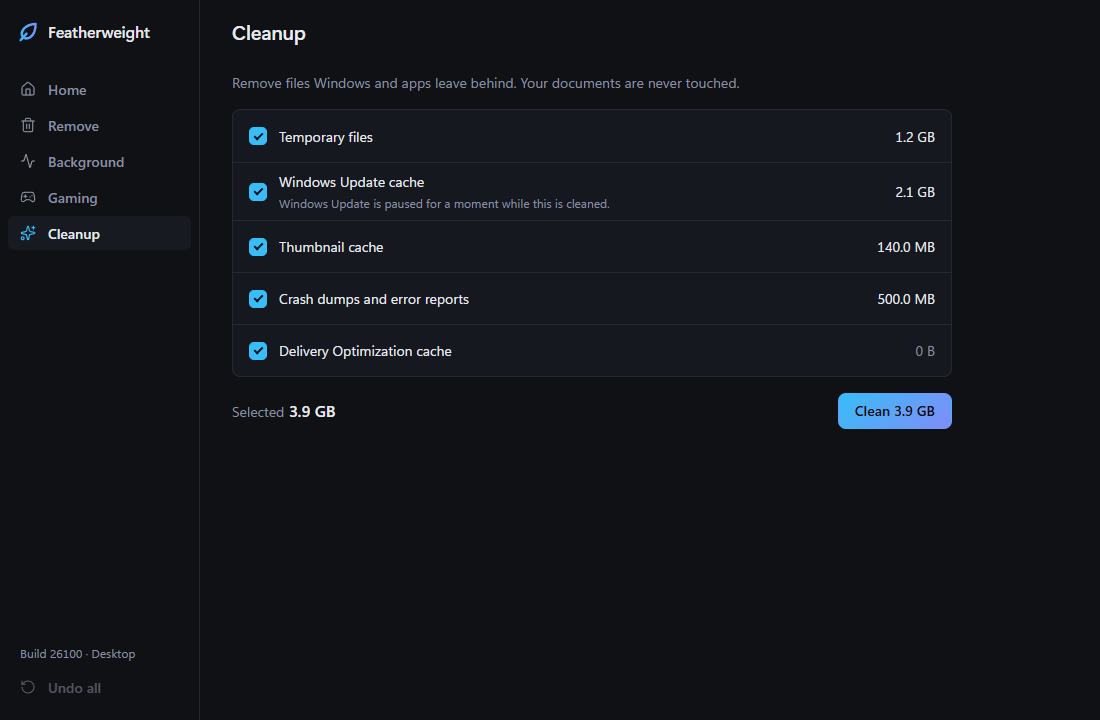
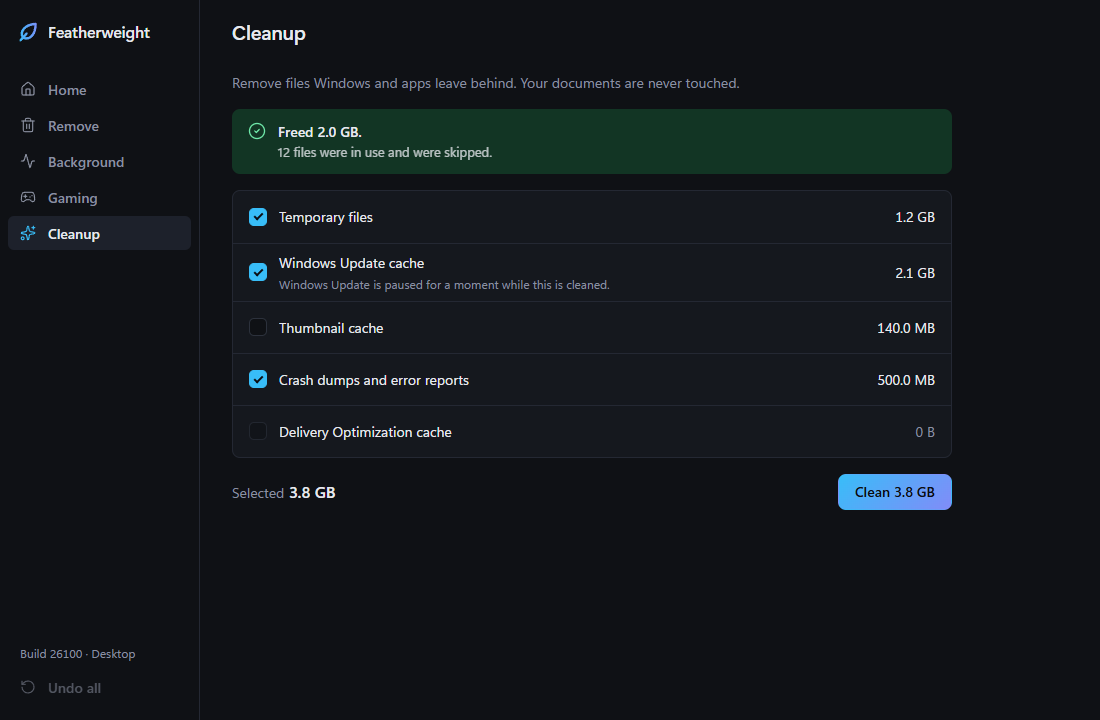
fix: cleanup page error persistence, unavailable state, re-entrancy, selection

diff --git a/src/pages/Cleanup.svelte b/src/pages/Cleanup.svelte
@@ -2,9 +2,9 @@
   import { CircleCheck, TriangleAlert } from "lucide-svelte";
   import ConfirmDialog from "../components/ConfirmDialog.svelte";
   import { backend } from "../lib/backend";
-  import { app, message } from "../lib/state.svelte";
+  import { app, message, BACKEND_UNAVAILABLE } from "../lib/state.svelte";
   import { formatBytes } from "../lib/format";
-  import { selectedBytes, selectedTargets } from "../lib/cleanupSelection";
+  import { nextSelection, selectedBytes, selectedTargets } from "../lib/cleanupSelection";
   import type { CleanupReport, CleanupTarget } from "../lib/types";
 
   const HINTS: Record<string, string> = {
@@ -20,18 +20,19 @@
   let confirmOpen = $state(false);
   let cleanButton = $state<HTMLButtonElement | null>(null);
 
-  const chosen = $derived(selectedTargets(targets, selected));
+  const chosen = $derived(selectedTargets(targets, selected).filter((t) => t.bytes > 0));
   const total = $derived(selectedBytes(targets, selected));
   const busy = $derived(scanning || running);
   const canClean = $derived(app.backendAvailable && !busy && chosen.length > 0 && total > 0);
 
-  async function scan() {
+  /** `keepError`: the post-clean rescan must not erase a failed run's message. */
+  async function scan(keepError = false) {
     scanning = true;
+    if (!keepError) error = null;
     try {
       const found = await backend.api.scanCleanup();
+      selected = nextSelection(found, new Set(targets.map((t) => t.id)), selected);
       targets = found;
-      selected = new Set(found.map((t) => t.id));
-      error = null;
     } catch (e) {
       error = message(e);
     } finally {
@@ -51,6 +52,7 @@
       started = true;
       void scan();
     }
+    // Unavailable-state text comes from BACKEND_UNAVAILABLE.
   });
 
   function toggle(id: string) {
@@ -61,6 +63,7 @@
   }
 
   async function run() {
+    if (running || scanning) return;
     confirmOpen = false;
     running = true;
     error = null;
@@ -72,7 +75,7 @@
     } finally {
       running = false;
     }
-    await scan();
+    await scan(true);
   }
 
   const plural = (n: number, one: string, many: string) => `${n} ${n === 1 ? one : many}`;
@@ -86,7 +89,7 @@
       <TriangleAlert size={16} strokeWidth={1.75} aria-hidden="true" />
       <p>{error}</p>
       {#if app.backendAvailable}
-        <button type="button" class="btn btn-ghost btn-sm" onclick={scan} disabled={busy}>Retry</button>
+        <button type="button" class="btn btn-ghost btn-sm" onclick={() => scan()} disabled={busy}>Retry</button>
       {/if}
     </div>
   {/if}
@@ -113,6 +116,8 @@
         </div>
       {/each}
       <span class="sr-only">Scanning for files to clean</span>
+    {:else if !app.backendAvailable}
+      <p class="empty muted">{BACKEND_UNAVAILABLE}</p>
     {:else if targets.length === 0 && !error}
       <p class="empty muted">Nothing to clean up right now.</p>
     {:else}
@@ -121,7 +126,7 @@
           <input
             type="checkbox"
             checked={selected.has(t.id)}
-            disabled={busy}
+            disabled={busy || t.bytes === 0}
             onchange={() => toggle(t.id)}
           />
           <span class="text">
@@ -317,6 +322,11 @@
 
   input[type="checkbox"]:checked::after {
     opacity: 1;
+  }
+
+  input[type="checkbox"]:focus-visible {
+    outline: 2px solid var(--accent);
+    outline-offset: 2px;
   }
 
   input[type="checkbox"]:disabled {

diff --git a/src/lib/cleanupSelection.test.ts b/src/lib/cleanupSelection.test.ts
@@ -1,9 +1,19 @@
 import { describe, expect, it } from "vitest";
-import { selectedBytes, selectedTargets } from "./cleanupSelection";
+import { nextSelection, selectedBytes, selectedTargets } from "./cleanupSelection";
 import type { CleanupTarget } from "./types";
 
 const t = (id: string, bytes: number): CleanupTarget => ({ id, label: id, paths: [], bytes, needsServiceStop: null });
 const targets = [t("a", 100), t("b", 250), t("c", 0)];
+
+describe("nextSelection", () => {
+  it("checks non-empty targets by default and skips zero-byte ones", () => {
+    expect([...nextSelection(targets, new Set(), new Set())]).toEqual(["a", "b"]);
+  });
+  it("keeps user-unchecked targets unchecked on rescan, checks new ones", () => {
+    const next = nextSelection([...targets, t("d", 5)], new Set(["a", "b"]), new Set(["a"]));
+    expect([...next].sort()).toEqual(["a", "d"]);
+  });
+});
 
 describe("cleanup selection", () => {
   it("sums only selected targets", () => {

diff --git a/src/lib/cleanupSelection.ts b/src/lib/cleanupSelection.ts
@@ -5,6 +5,24 @@ export function selectedTargets(targets: CleanupTarget[], selected: ReadonlySet<
   return targets.filter((t) => selected.has(t.id));
 }
 
+/**
+ * Selection after a (re)scan. Non-empty targets are checked by default;
+ * a target the user had unchecked stays unchecked when it comes back.
+ * Zero-byte targets are never checked.
+ */
+export function nextSelection(
+  targets: CleanupTarget[],
+  previousIds: ReadonlySet<string>,
+  previousSelected: ReadonlySet<string>,
+): Set<string> {
+  const next = new Set<string>();
+  for (const t of targets) {
+    if (t.bytes <= 0) continue;
+    if (!previousIds.has(t.id) || previousSelected.has(t.id)) next.add(t.id);
+  }
+  return next;
+}
+
 /** Total bytes the selected targets would free. */
 export function selectedBytes(targets: CleanupTarget[], selected: ReadonlySet<string>): number {
   return selectedTargets(targets, selected).reduce((sum, t) => sum + t.bytes, 0);
